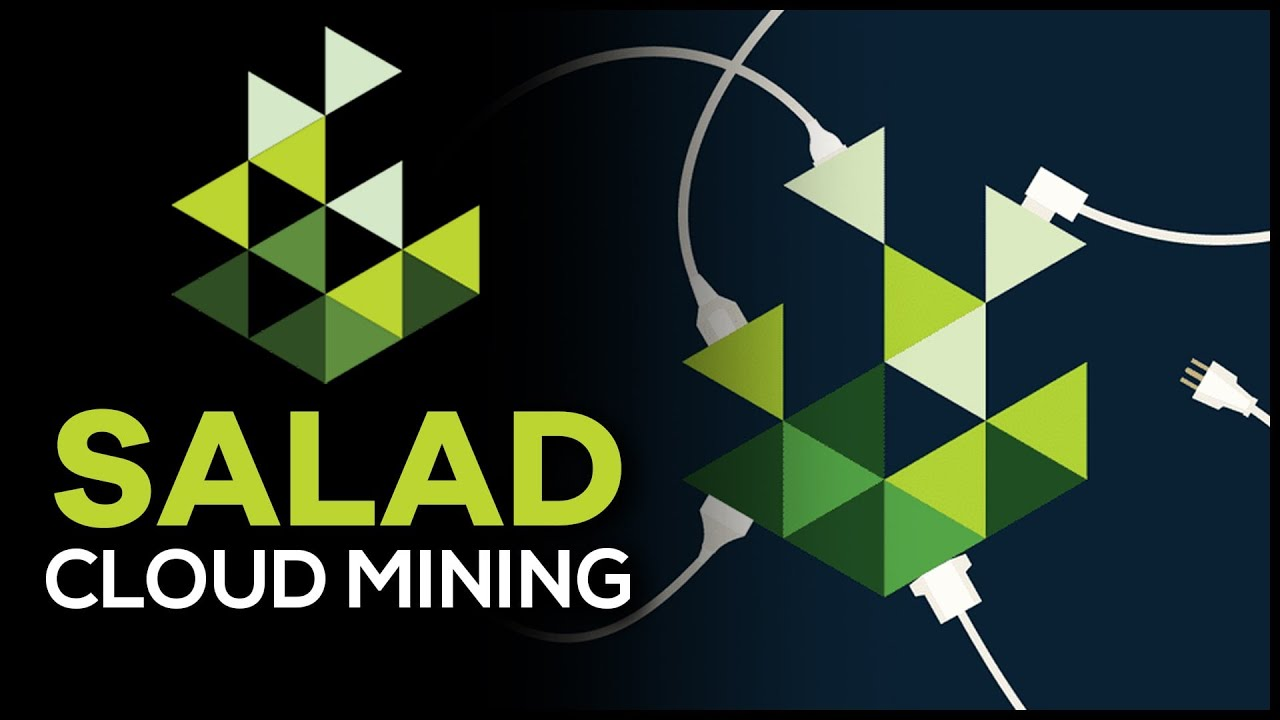
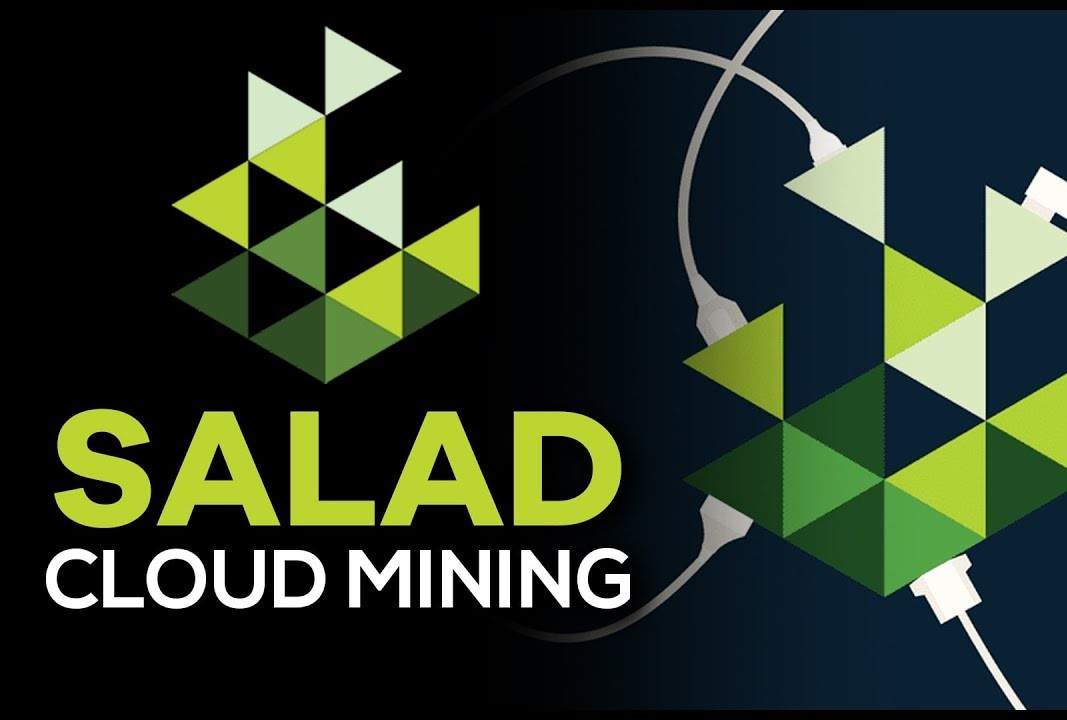
Let's see if this works ?

diff --git a/_includes/archive-single-resource.html b/_includes/archive-single-resource.html
@@ -62,7 +62,7 @@
   overflow: hidden;
   box-shadow: 0 4px 20px rgba(0, 0, 0, 0.15), 0 0 0 1px rgba(0, 0, 0, 0.08);
   transition: all 0.4s cubic-bezier(0.4, 0, 0.2, 1);
-  aspect-ratio: 4 / 3;
+  aspect-ratio: 3 / 2;
 }
 
 .resource-image-link {

diff --git a/_includes/archive-single-gallery.html b/_includes/archive-single-gallery.html
@@ -67,7 +67,7 @@
   overflow: hidden;
   box-shadow: 0 4px 20px rgba(0, 0, 0, 0.15), 0 0 0 1px rgba(0, 0, 0, 0.08);
   transition: all 0.4s cubic-bezier(0.4, 0, 0.2, 1);
-  aspect-ratio: 4 / 3;
+  aspect-ratio: 3 / 2;
 }
 
 .gallery-image-link {

diff --git a/_includes/archive-single-opinion.html b/_includes/archive-single-opinion.html
@@ -53,7 +53,7 @@
   overflow: hidden;
   box-shadow: 0 4px 20px rgba(0, 0, 0, 0.15), 0 0 0 1px rgba(0, 0, 0, 0.08);
   transition: all 0.4s cubic-bezier(0.4, 0, 0.2, 1);
-  aspect-ratio: 4 / 3;
+  aspect-ratio: 3 / 2;
 }
 
 .opinion-image-link {

diff --git a/_pages/gallery.md b/_pages/gallery.md
@@ -35,6 +35,14 @@ author_profile: true
 {% assign total_gallery = gallery | size %}
 {% assign per_page = 10 %}
 
+<div id="country-filters" style="text-align: center; margin-bottom: 30px; display: flex; justify-content: center; gap: 15px; flex-wrap: wrap;">
+  <button class="country-filter-btn active" data-country="Armenia" title="Armenia" style="width: 50px; height: 35px; border: 2px solid #ddd; border-radius: 6px; cursor: pointer; background: linear-gradient(to bottom, #d90012 0%, #d90012 33%, #0033a0 33%, #0033a0 66%, #f2a800 66%, #f2a800 100%); transition: all 0.3s ease; opacity: 1;"></button>
+  <button class="country-filter-btn active" data-country="Sweden" title="Sweden" style="width: 50px; height: 35px; border: 2px solid #ddd; border-radius: 6px; cursor: pointer; background: linear-gradient(to bottom, #006aa7 0%, #006aa7 50%, #fecc00 50%, #fecc00 100%); transition: all 0.3s ease; opacity: 1;"></button>
+  <button class="country-filter-btn active" data-country="Hong Kong" title="Hong Kong" style="width: 50px; height: 35px; border: 2px solid #ddd; border-radius: 6px; cursor: pointer; background: #de2910; transition: all 0.3s ease; opacity: 1;"></button>
+  <button class="country-filter-btn active" data-country="China" title="China" style="width: 50px; height: 35px; border: 2px solid #ddd; border-radius: 6px; cursor: pointer; background: #de2910; transition: all 0.3s ease; opacity: 1;"></button>
+  <button class="country-filter-btn active" data-country="Poland" title="Poland" style="width: 50px; height: 35px; border: 2px solid #ddd; border-radius: 6px; cursor: pointer; background: linear-gradient(to bottom, #ffffff 0%, #ffffff 50%, #dc143c 50%, #dc143c 100%); transition: all 0.3s ease; opacity: 1;"></button>
+</div>
+
 <div id="gallery-container">
   {% for post in gallery %}
     <div class="gallery-item" data-page="{{ forloop.index0 | divided_by: per_page | plus: 1 }}" style="display: none;">
@@ -57,6 +65,7 @@ author_profile: true
   const totalGallery = {{ total_gallery }};
   const totalPages = Math.ceil(totalGallery / perPage);
   let currentPage = 1;
+  let activeCountries = new Set(['Armenia', 'Sweden', 'Hong Kong', 'China', 'Poland']);
   
   // Get page from URL or default to 1
   const urlParams = new URLSearchParams(window.location.search);
@@ -67,17 +76,52 @@ author_profile: true
     if (currentPage > totalPages) currentPage = totalPages;
   }
   
-  function showPage(page) {
+  // Country filter functionality
+  function initializeCountryFilters() {
+    const filterButtons = document.querySelectorAll('.country-filter-btn');
+    filterButtons.forEach(btn => {
+      btn.addEventListener('click', function() {
+        const country = this.getAttribute('data-country');
+        if (activeCountries.has(country)) {
+          activeCountries.delete(country);
+          this.classList.remove('active');
+          this.style.opacity = '0.4';
+        } else {
+          activeCountries.add(country);
+          this.classList.add('active');
+          this.style.opacity = '1';
+        }
+        applyFilters();
+      });
+    });
+  }
+  
+  function applyFilters() {
     const items = document.querySelectorAll('.gallery-item');
+    
     items.forEach(item => {
+      const country = item.getAttribute('data-country') || '';
       const itemPage = parseInt(item.getAttribute('data-page'));
-      if (itemPage === page) {
+      
+      if (activeCountries.has(country) && itemPage === currentPage) {
         item.style.display = 'block';
       } else {
         item.style.display = 'none';
       }
     });
-    updatePagination(page);
+    
+    // Recalculate pagination based on filtered items
+    const filteredItems = Array.from(items).filter(item => {
+      const country = item.getAttribute('data-country') || '';
+      return activeCountries.has(country);
+    });
+    const filteredTotalPages = Math.ceil(filteredItems.length / perPage);
+    updatePagination(currentPage, filteredTotalPages);
+  }
+  
+  function showPage(page) {
+    currentPage = page;
+    applyFilters();
     // Update URL without reload
     const newUrl = page === 1 
       ? '{{ base_path }}/gallery/'
@@ -85,7 +129,7 @@ author_profile: true
     window.history.pushState({page: page}, '', newUrl);
   }
   
-  function updatePagination(page) {
+  function updatePagination(page, totalPagesToShow) {
     const paginationList = document.getElementById('pagination-list');
     if (!paginationList) {
       console.error('Pagination list not found');
@@ -94,8 +138,10 @@ author_profile: true
     
     paginationList.innerHTML = '';
     
+    const pages = totalPagesToShow || totalPages;
+    
     // If only one page, still show it
-    if (totalPages <= 1 && totalGallery > 0) {
+    if (pages <= 1 && totalGallery > 0) {
       const li = document.createElement('li');
       li.innerHTML = '<a href="#" class="disabled current">1</a>';
       paginationList.appendChild(li);
@@ -103,7 +149,7 @@ author_profile: true
     }
     
     // Don't show pagination if no gallery items
-    if (totalPages <= 0) {
+    if (pages <= 0) {
       return;
     }
     
@@ -128,7 +174,7 @@ author_profile: true
     
     // Page numbers
     let startPage = Math.max(1, page - 2);
-    let endPage = Math.min(totalPages, page + 2);
+    let endPage = Math.min(pages, page + 2);
     
     if (startPage > 1) {
       const firstLi = document.createElement('li');
@@ -165,23 +211,23 @@ author_profile: true
       paginationList.appendChild(li);
     }
     
-    if (endPage < totalPages) {
-      if (endPage < totalPages - 1) {
+    if (endPage < pages) {
+      if (endPage < pages - 1) {
         const ellipsis = document.createElement('li');
         ellipsis.innerHTML = '<a href="#" class="disabled">&hellip;</a>';
         paginationList.appendChild(ellipsis);
       }
       const lastLi = document.createElement('li');
-      lastLi.innerHTML = '<a href="{{ base_path }}/gallery/?page=' + totalPages + '">' + totalPages + '</a>';
+      lastLi.innerHTML = '<a href="{{ base_path }}/gallery/?page=' + pages + '">' + pages + '</a>';
       lastLi.querySelector('a').addEventListener('click', function(e) {
         e.preventDefault();
-        showPage(totalPages);
+        showPage(pages);
       });
       paginationList.appendChild(lastLi);
     }
     
     // Next button
-    if (page < totalPages) {
+    if (page < pages) {
       const nextLi = document.createElement('li');
       nextLi.innerHTML = '<a href="{{ base_path }}/gallery/?page=' + (page + 1) + '">Next</a>';
       nextLi.querySelector('a').addEventListener('click', function(e) {
@@ -196,12 +242,15 @@ author_profile: true
     }
   }
   
+  // Initialize country filters
+  initializeCountryFilters();
+  
   // Initialize page display (this will also initialize pagination)
   showPage(currentPage);
   
   // Ensure pagination is visible even if only one page
   if (totalGallery > 0 && totalPages <= 1) {
-    updatePagination(1);
+    updatePagination(1, totalPages);
   }
   
   // Handle browser back/forward
